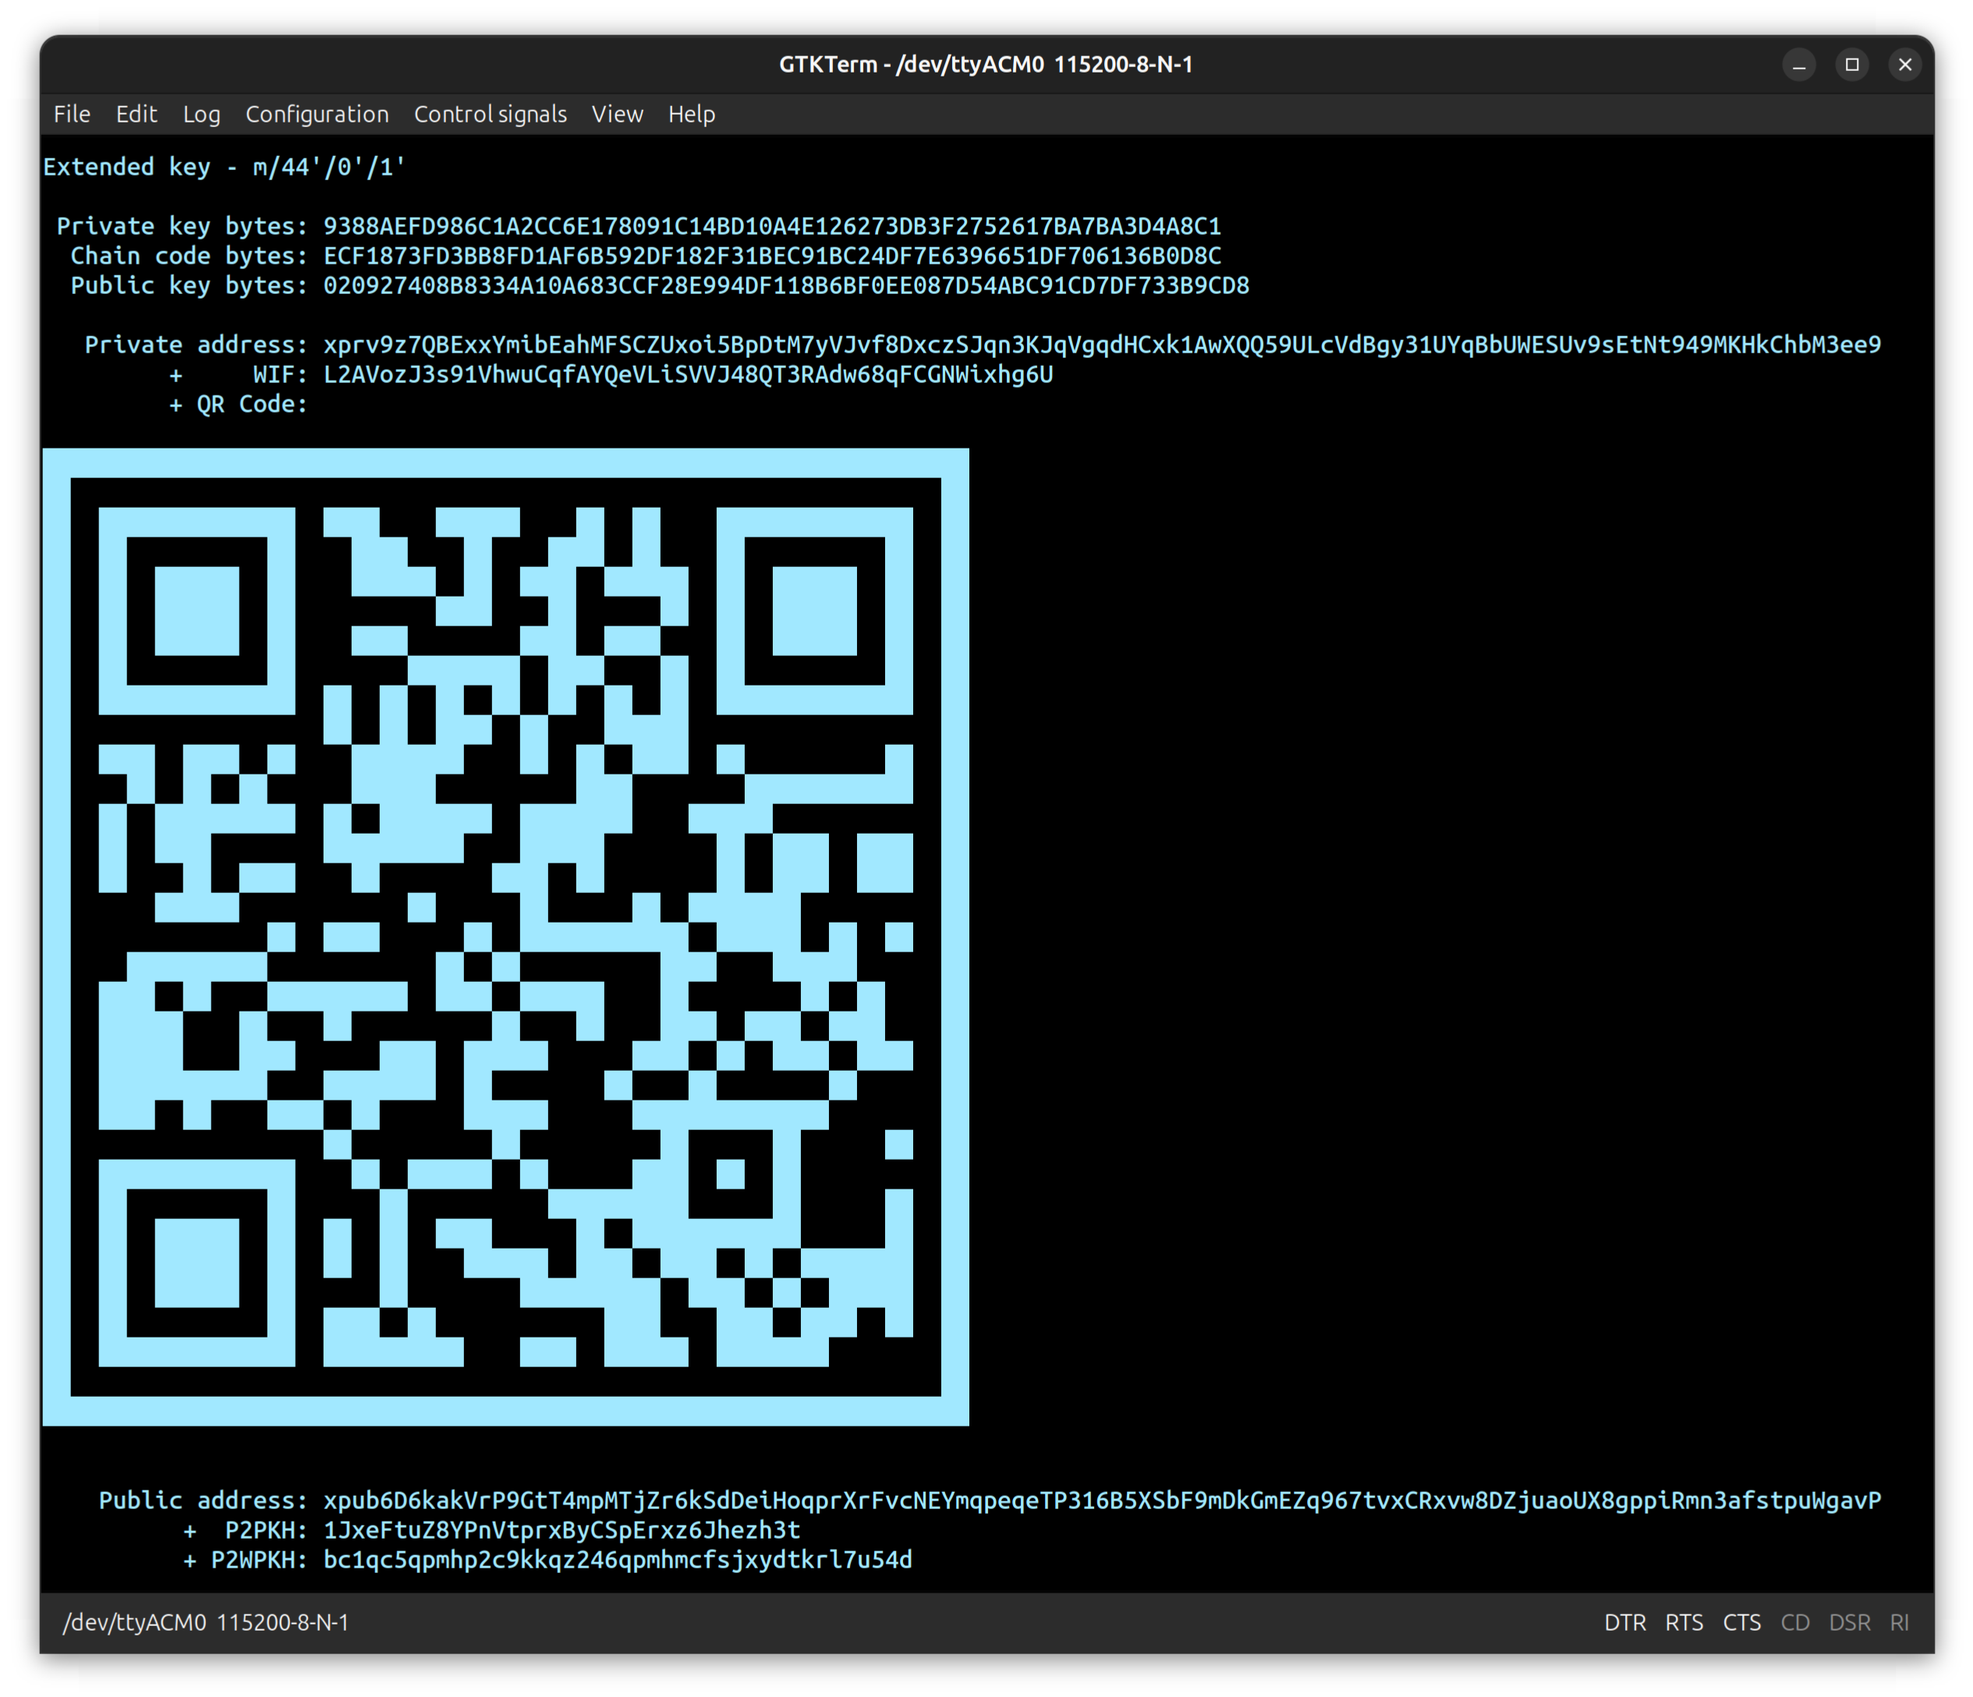
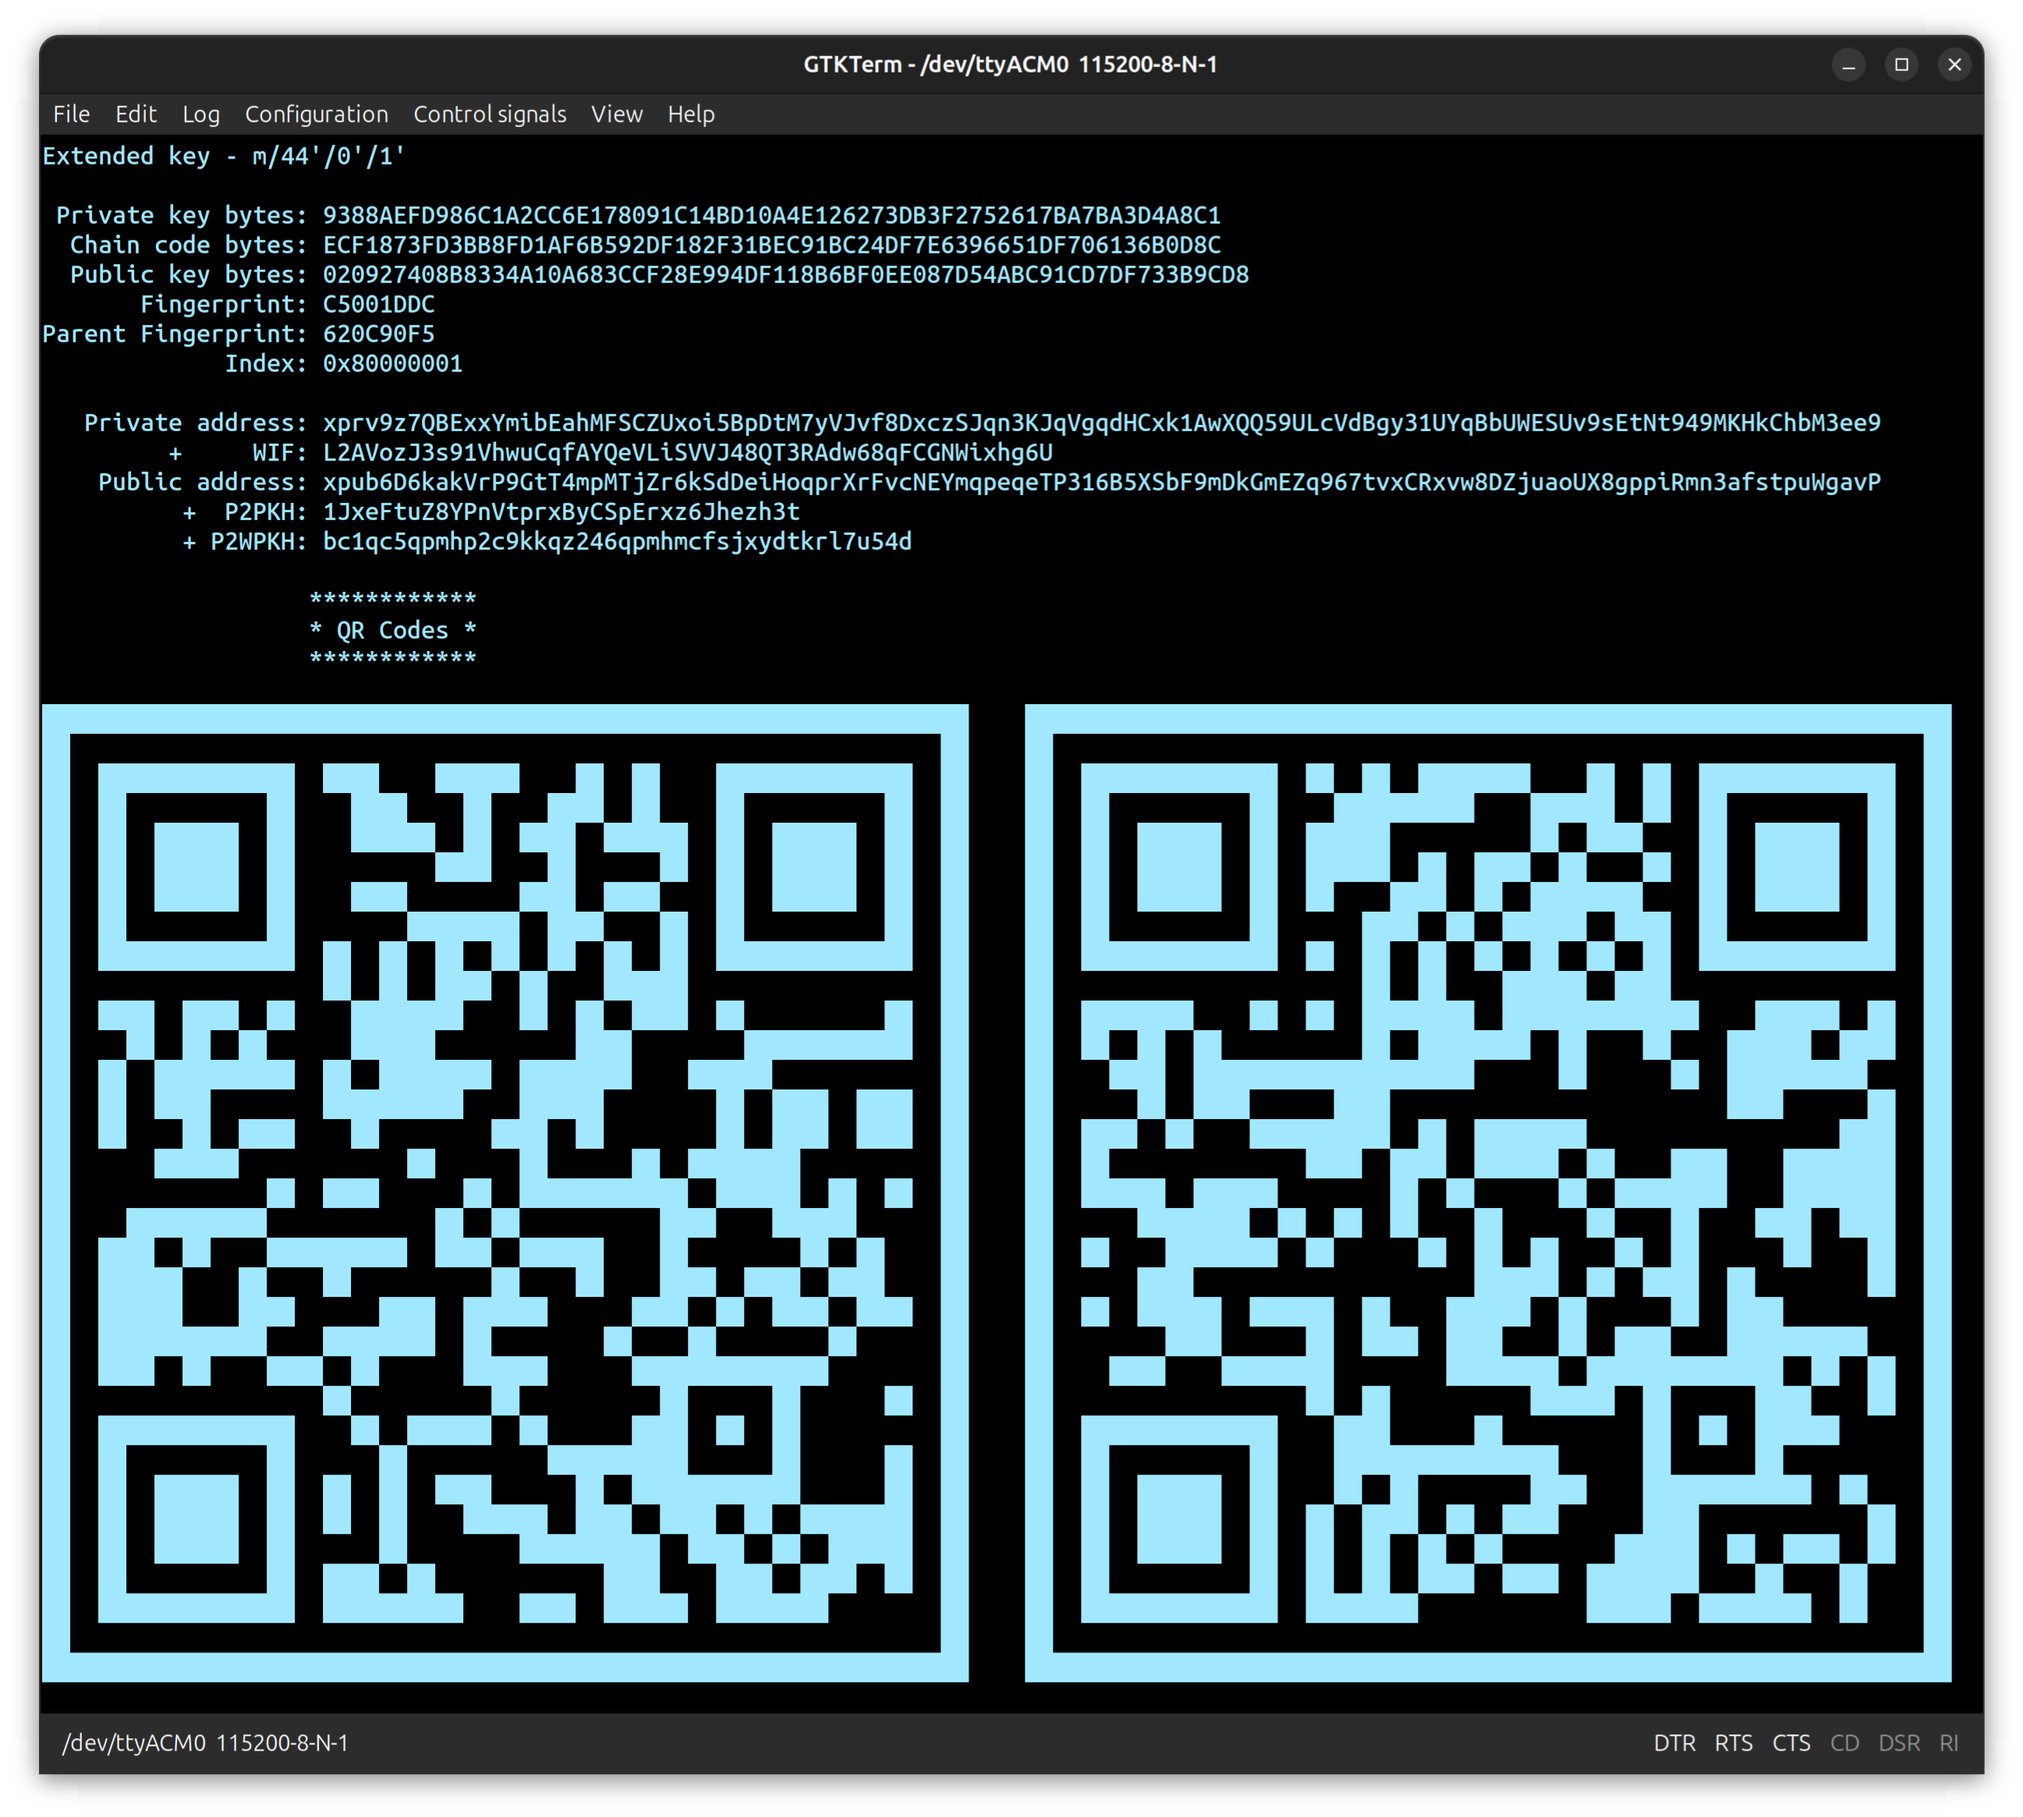
Generate QR for both private and public addresses/keys

diff --git a/pico/src/pico_wallet.c b/pico/src/pico_wallet.c
@@ -9,6 +9,92 @@ const char* KEY_HEADER                  = "<#8BitVault_OK!>";
 #define KEY_HEADER_SIZE     (16)
 
 
+void print_qr_addresses(const uint8_t* privateAddress, const uint8_t* publicAddress) {
+    // The structure to manage the QR code
+    QRCode qrcodePrivate;
+    QRCode qrcodePublic;
+
+    // Allocate a chunk of memory to store the QR codes
+    uint8_t qrcodeBytesPrivate[qrcode_getBufferSize(3)];
+    uint8_t qrcodeBytesPublic[qrcode_getBufferSize(3)];
+    
+   qrcode_initText(&qrcodePrivate, qrcodeBytesPrivate, 3, ECC_LOW, privateAddress);
+   qrcode_initText(&qrcodePublic, qrcodeBytesPublic, 3, ECC_LOW, publicAddress);
+
+    // Header row
+    printf("\u2588\u2588\u2588\u2588");
+    for (uint8_t x = 0; x < qrcodePrivate.size; x++) {
+        printf("\u2588\u2588");
+    }
+    printf("\u2588\u2588\u2588\u2588    \u2588\u2588\u2588\u2588");
+    for (uint8_t x = 0; x < qrcodePublic.size; x++) {
+        printf("\u2588\u2588");
+    }
+    printf("\u2588\u2588\u2588\u2588\n");
+
+    // Top gap row
+    printf("\u2588\u2588  ");
+    for (uint8_t x = 0; x < qrcodePrivate.size; x++) {
+        printf("  ");
+    }
+    printf("  \u2588\u2588    \u2588\u2588  ");
+    for (uint8_t x = 0; x < qrcodePublic.size; x++) {
+        printf("  ");
+    }
+    printf("  \u2588\u2588\n");
+
+    // QR code rows
+    for (uint8_t y = 0; y < qrcodePrivate.size; y++) {
+
+        printf("\u2588\u2588  ");
+        
+        // Private key
+        for (uint8_t x = 0; x < qrcodePrivate.size; x++) {
+            if (qrcode_getModule(&qrcodePrivate, x, y)) {
+                printf("\u2588\u2588");
+            } else {
+                printf("  ");
+            }
+        }
+
+        printf("  \u2588\u2588    \u2588\u2588  ");
+
+        // Public
+        for (uint8_t x = 0; x < qrcodePublic.size; x++) {
+            if (qrcode_getModule(&qrcodePublic, x, y)) {
+                printf("\u2588\u2588");
+            } else {
+                printf("  ");
+            }
+        }
+
+        printf("  \u2588\u2588");
+        printf("\n");
+    }
+
+    // Bottom gap row
+    printf("\u2588\u2588  ");
+    for (uint8_t x = 0; x < qrcodePrivate.size; x++) {
+        printf("  ");
+    }
+    printf("  \u2588\u2588    \u2588\u2588  ");
+    for (uint8_t x = 0; x < qrcodePublic.size; x++) {
+        printf("  ");
+    }
+    printf("  \u2588\u2588\n");
+
+    // Footer row
+    printf("\u2588\u2588\u2588\u2588");
+    for (uint8_t x = 0; x < qrcodePrivate.size; x++) {
+        printf("\u2588\u2588");
+    }
+    printf("\u2588\u2588\u2588\u2588    \u2588\u2588\u2588\u2588");
+    for (uint8_t x = 0; x < qrcodePublic.size; x++) {
+        printf("\u2588\u2588");
+    }
+    printf("\u2588\u2588\u2588\u2588\n");
+}
+
 void print_qr_code(const uint8_t* address) {
     // The structure to manage the QR code
     QRCode qrcode;
@@ -59,7 +145,8 @@ void print_qr_code(const uint8_t* address) {
 
 void debug_key(const char* title, const ExtendedKey* key) {
     int addressLen;
-    uint8_t address[128];
+    uint8_t privateAddress[128];
+    uint8_t publicAddress[64];
 
     printf("Extended key - %s\n\n", title);
 
@@ -79,43 +166,7 @@ void debug_key(const char* title, const ExtendedKey* key) {
     for(int i = 0; i < PUBLIC_KEY_LENGTH; ++i) {
         printf("%02X", key->publicKey[i]);
     }
-    printf("\n\n");
-
-    printf("   Private address: ");
-    addressLen = get_extended_private_key_address(key, address);
-    for(int i = 0; i < addressLen; ++i) {
-        printf("%c", address[i]);
-    }
     printf("\n");
-    printf("         +     WIF: ");
-    addressLen = get_private_key_wif(key, BTC_MAIN_NET, address);
-    printf("%s", address);
-    printf("\n");
-    
-    printf("         + QR Code: \n\n");
-    print_qr_code(address);
-    printf("\n\n");
-
-    printf("    Public address: ");
-    addressLen = get_extended_public_key_address(key, address);
-    for(int i = 0; i < addressLen; ++i) {
-        printf("%c", address[i]);
-    }
-    printf("\n");
-    printf("          +  P2PKH: ");
-    addressLen = get_p2pkh_public_address(key, address);
-    for(int i = 0; i < addressLen; ++i) {
-        printf("%c", address[i]);
-    }
-    printf("\n");
-
-    printf("          + P2WPKH: ");
-    addressLen = get_p2wpkh_public_address(key, address);
-    for(int i = 0; i < addressLen; ++i) {
-        printf("%c", address[i]);
-    }
-    printf("\n\n");
-
 
     printf("       Fingerprint: ");
     for(int i = 0; i < FINGERPRINT_LENGTH; ++i) {
@@ -129,8 +180,49 @@ void debug_key(const char* title, const ExtendedKey* key) {
     }
     printf("\n");
 
-    printf("             Index: 0x%08X\n", key->index);
-    printf("\n            ************\n\n");
+    printf("             Index: 0x%08X\n\n", key->index);
+
+
+    printf("   Private address: ");
+    addressLen = get_extended_private_key_address(key, privateAddress);
+    for(int i = 0; i < addressLen; ++i) {
+        printf("%c", privateAddress[i]);
+    }
+    printf("\n");
+    printf("         +     WIF: ");
+    addressLen = get_private_key_wif(key, BTC_MAIN_NET, privateAddress);
+    printf("%s", privateAddress);
+    printf("\n");
+    
+    printf("    Public address: ");
+    addressLen = get_extended_public_key_address(key, privateAddress);
+    for(int i = 0; i < addressLen; ++i) {
+        printf("%c", privateAddress[i]);
+    }
+    printf("\n");
+    printf("          +  P2PKH: ");
+    addressLen = get_p2pkh_public_address(key, publicAddress);
+    for(int i = 0; i < addressLen; ++i) {
+        printf("%c", publicAddress[i]);
+    }
+    printf("\n");
+
+    printf("          + P2WPKH: ");
+    addressLen = get_p2wpkh_public_address(key, publicAddress);
+    for(int i = 0; i < addressLen; ++i) {
+        printf("%c", publicAddress[i]);
+    }
+    printf("\n\n");
+
+    printf("                   ************\n");
+    printf("                   * QR Codes *\n");
+    printf("                   ************\n\n");
+    get_private_key_wif(key, BTC_MAIN_NET, privateAddress);
+    get_p2pkh_public_address(key, publicAddress);
+    print_qr_addresses(privateAddress, publicAddress);
+
+
+    printf("\n\n\n");
 }
 
 
